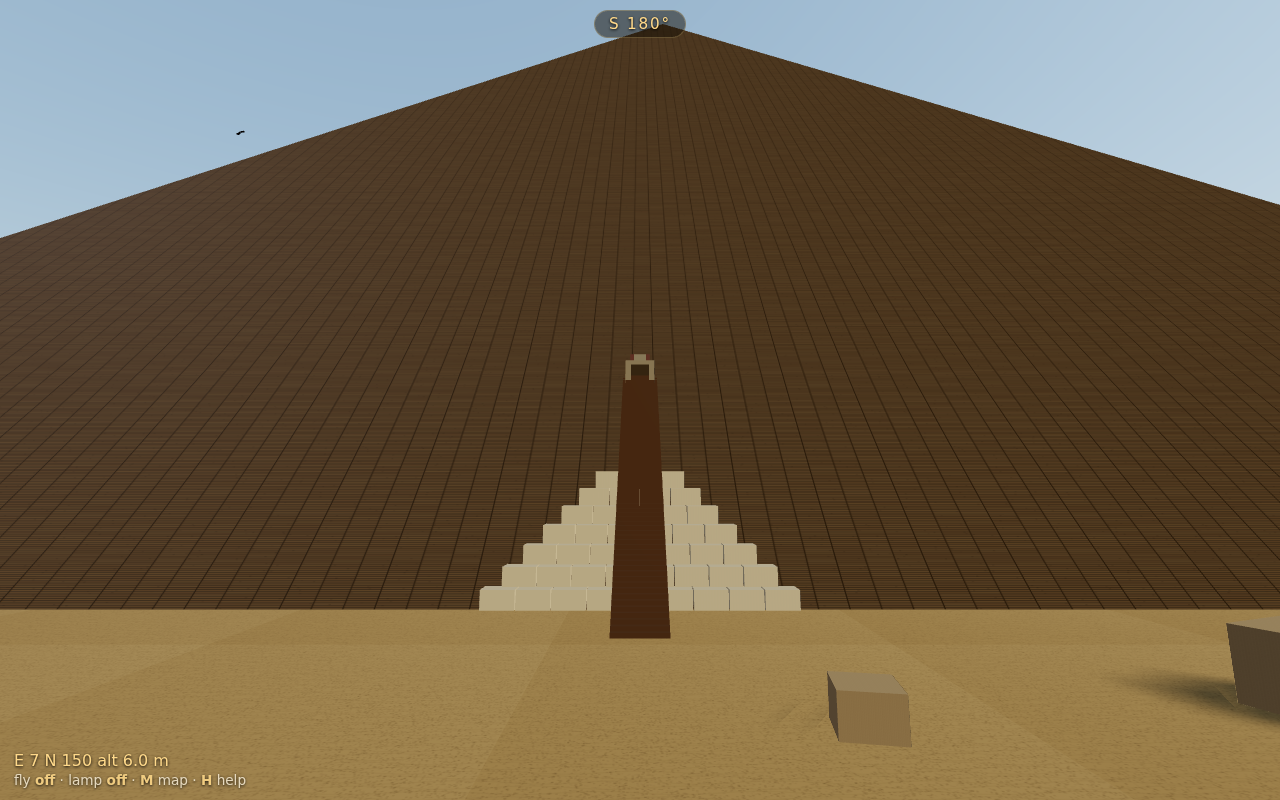
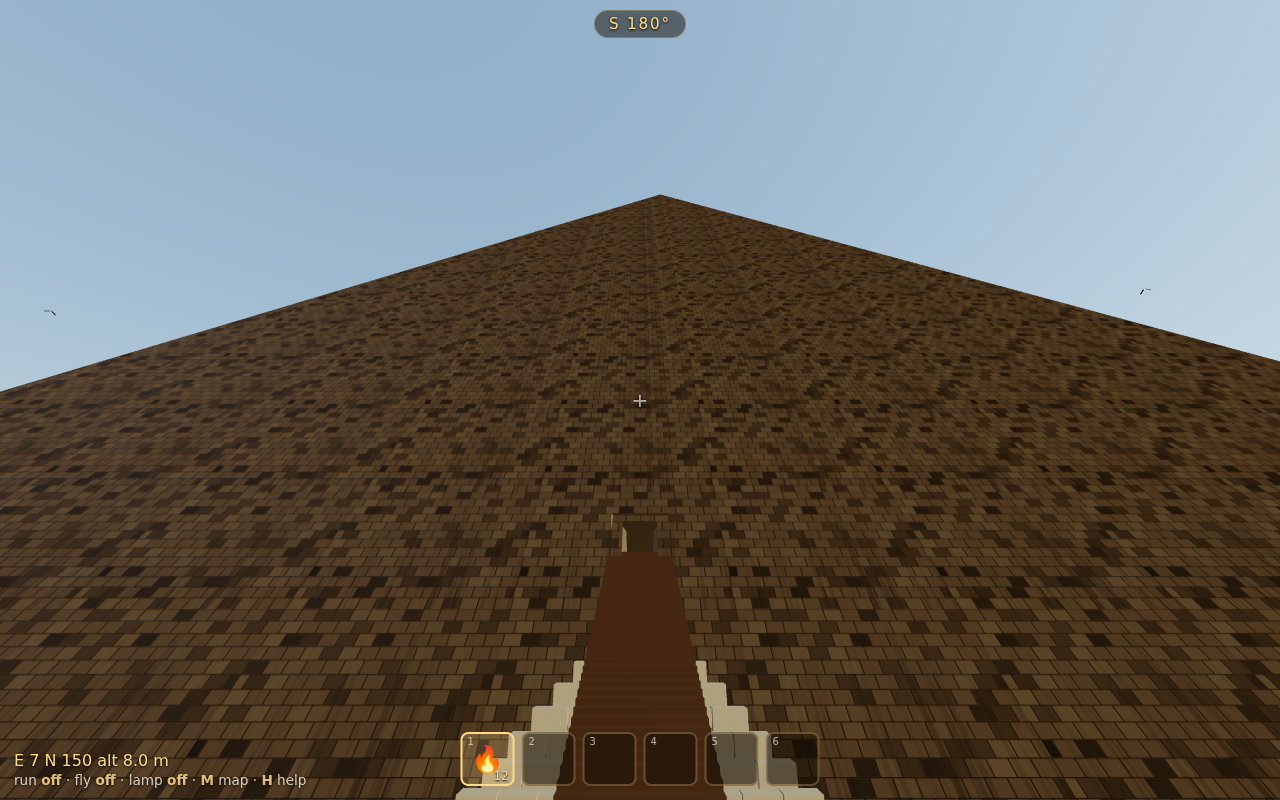
Refine layout to real survey + more realistic stone textures
Layout (from GPMP survey data / the Giza diagonal):
- Khafre centre -> (-300, 339): its SE corner now sits on the diagonal that
  joins the SE corners of all three pyramids.
- Menkaure centre -> (-562, 739): centre-to-centre diagonal to Khufu ≈ 928.7 m
  with a 739 m north-south separation, matching the survey.
- Sphinx, and Khufu's/Menkaure's subsidiary pyramids repositioned to their real
  rows (Khufu's east, Menkaure's along the south).

Textures:
- Rewrote the procedural stone as fine masonry courses with running-bond
  joints, per-block colour variation, eroded/missing blocks, weathering
  streaks and speckle, plus stronger bump relief.
- Distinct Tura-limestone casing (near-white, tight joints) and real Aswan
  granite (reddish with pink/grey/black mineral flecks).
- Mastabas/temples/Sphinx now use a textured bedrock material; richer sand.

diff --git a/js/materials.js b/js/materials.js
@@ -1,45 +1,97 @@
 import * as THREE from 'three';
 
-// Procedural canvas of stacked, eroded stone courses. Used as both colour
-// map and bump map so the millions of blocks read as relief without
-// modelling each one. Returns a THREE.CanvasTexture.
-function blockTexture(base, line, hi, courses = 24, seed = 1) {
+// ---------------------------------------------------------------------
+//  Procedural stone-course texture (colour + matching bump). Models the
+//  stacked masonry of the pyramids: mortar joints, per-block colour
+//  variation, weathering streaks and erosion speckle.
+// ---------------------------------------------------------------------
+function blockTexture(opts) {
+  const {
+    base = '#cbb083', dark = '#7c6840', light = '#e4cf9e',
+    courses = 12, perCourse = 12, streaks = true, seed = 1
+  } = opts;
   const S = 512;
   const c = document.createElement('canvas');
   c.width = c.height = S;
   const g = c.getContext('2d');
-  g.fillStyle = base; g.fillRect(0, 0, S, S);
-  const rh = S / courses;
   let rng = seed;
   const rand = () => (rng = (rng * 9301 + 49297) % 233280) / 233280;
+
+  g.fillStyle = base; g.fillRect(0, 0, S, S);
+  const rh = S / courses, bw0 = S / perCourse;
   for (let i = 0; i < courses; i++) {
     const y = i * rh;
-    const off = (i % 2) * (S / 12);
-    const blocks = 12;
-    const bw = S / blocks;
-    for (let b = -1; b < blocks + 1; b++) {
-      const x = b * bw - off;
-      // per-block tint (lighter top edge, darker base = weathering)
+    const off = (i % 2) * (bw0 / 2);                 // running-bond offset
+    // gentle per-course shade band
+    g.fillStyle = `rgba(0,0,0,${0.03 + rand() * 0.04})`;
+    g.fillRect(0, y, S, rh);
+    for (let b = -1; b <= perCourse; b++) {
+      const x = b * bw0 - off;
       const t = rand();
-      g.fillStyle = t > 0.5 ? hi : base;
-      g.globalAlpha = 0.18 + rand() * 0.22;
-      g.fillRect(x + 1, y + 1, bw - 2, rh - 2);
+      // block face: blend between dark/base/light by random
+      g.fillStyle = t > 0.72 ? light : (t < 0.22 ? dark : base);
+      g.globalAlpha = 0.30 + rand() * 0.30;
+      g.fillRect(x + 1.5, y + 1.5, bw0 - 3, rh - 3);
       g.globalAlpha = 1;
-      // mortar / shadow gaps
-      g.fillStyle = line;
-      g.fillRect(x, y, bw, 1.6);              // horizontal joint
-      g.fillRect(x, y, 1.6, rh);              // vertical joint
-      // erosion speckle
-      if (rand() > 0.7) {
-        g.fillStyle = 'rgba(0,0,0,0.10)';
-        g.fillRect(x + rand() * bw, y + rand() * rh, 3, 2);
+      // occasional dark eroded / missing block
+      if (rand() > 0.93) {
+        g.fillStyle = 'rgba(40,30,18,0.45)';
+        g.fillRect(x + 1.5, y + 1.5, bw0 - 3, rh - 3);
       }
+      // chips / speckle
+      for (let s = 0; s < 3; s++) {
+        g.fillStyle = `rgba(0,0,0,${0.05 + rand() * 0.08})`;
+        g.fillRect(x + rand() * bw0, y + rand() * rh, 2, 1.5);
+      }
+    }
+    // mortar joints (recessed → dark, used by the bump map too)
+    g.strokeStyle = dark; g.lineWidth = 2.2;
+    g.beginPath(); g.moveTo(0, y); g.lineTo(S, y); g.stroke();
+    for (let b = -1; b <= perCourse; b++) {
+      const x = b * bw0 - off;
+      g.beginPath(); g.moveTo(x, y); g.lineTo(x, y + rh); g.stroke();
+    }
+  }
+  // vertical weathering streaks
+  if (streaks) {
+    for (let s = 0; s < 26; s++) {
+      const x = rand() * S, w = 3 + rand() * 10;
+      const grd = g.createLinearGradient(x, 0, x, S);
+      grd.addColorStop(0, 'rgba(60,45,25,0)');
+      grd.addColorStop(1, `rgba(50,38,20,${0.05 + rand() * 0.10})`);
+      g.fillStyle = grd; g.fillRect(x, 0, w, S);
     }
   }
   const tex = new THREE.CanvasTexture(c);
   tex.wrapS = tex.wrapT = THREE.RepeatWrapping;
-  tex.anisotropy = 8;
+  tex.anisotropy = 16;
   tex.colorSpace = THREE.SRGBColorSpace;
+  return tex;
+}
+
+// Red Aswan granite: warm reddish ground with pink/grey/black mineral flecks.
+function graniteTexture() {
+  const S = 512;
+  const c = document.createElement('canvas');
+  c.width = c.height = S;
+  const g = c.getContext('2d');
+  const grd = g.createLinearGradient(0, 0, S, S);
+  grd.addColorStop(0, '#8a564a'); grd.addColorStop(1, '#7a4a40');
+  g.fillStyle = grd; g.fillRect(0, 0, S, S);
+  const cols = ['#c98f7a', '#9c6253', '#6e4338', '#3a2a24', '#b0a39a', '#caa890'];
+  for (let i = 0; i < 24000; i++) {
+    g.fillStyle = cols[(Math.random() * cols.length) | 0];
+    g.globalAlpha = 0.25 + Math.random() * 0.4;
+    const x = Math.random() * S, y = Math.random() * S, r = 1 + Math.random() * 2.6;
+    g.fillRect(x, y, r, r);
+  }
+  g.globalAlpha = 1;
+  // faint horizontal joints (granite ashlar)
+  g.strokeStyle = 'rgba(30,20,16,0.5)'; g.lineWidth = 2;
+  for (let y = 0; y < S; y += S / 6) { g.beginPath(); g.moveTo(0, y); g.lineTo(S, y); g.stroke(); }
+  const tex = new THREE.CanvasTexture(c);
+  tex.wrapS = tex.wrapT = THREE.RepeatWrapping;
+  tex.anisotropy = 16; tex.colorSpace = THREE.SRGBColorSpace;
   return tex;
 }
 
@@ -49,18 +101,14 @@ function sandTexture() {
   c.width = c.height = S;
   const g = c.getContext('2d');
   const grad = g.createLinearGradient(0, 0, S, S);
-  grad.addColorStop(0, '#cdac6e');
-  grad.addColorStop(1, '#c2a062');
+  grad.addColorStop(0, '#cdac6e'); grad.addColorStop(1, '#c09d60');
   g.fillStyle = grad; g.fillRect(0, 0, S, S);
-  for (let i = 0; i < 26000; i++) {
-    const x = Math.random() * S, y = Math.random() * S;
+  for (let i = 0; i < 30000; i++) {
     const v = Math.random();
-    g.fillStyle = `rgba(${v > 0.5 ? 170 : 120},${v > 0.5 ? 138 : 96},${v > 0.5 ? 86 : 56},0.22)`;
-    g.fillRect(x, y, 1.6, 1.6);
+    g.fillStyle = `rgba(${v > 0.5 ? 175 : 120},${v > 0.5 ? 142 : 96},${v > 0.5 ? 88 : 56},0.22)`;
+    g.fillRect(Math.random() * S, Math.random() * S, 1.6, 1.6);
   }
-  // faint wind ripples
-  g.strokeStyle = 'rgba(120,95,55,0.08)';
-  g.lineWidth = 2;
+  g.strokeStyle = 'rgba(120,95,55,0.07)'; g.lineWidth = 2;
   for (let y = 0; y < S; y += 9) {
     g.beginPath();
     for (let x = 0; x <= S; x += 16) g.lineTo(x, y + Math.sin(x * 0.05 + y) * 3);
@@ -68,47 +116,47 @@ function sandTexture() {
   }
   const tex = new THREE.CanvasTexture(c);
   tex.wrapS = tex.wrapT = THREE.RepeatWrapping;
-  tex.repeat.set(160, 160);
-  tex.anisotropy = 8;
-  tex.colorSpace = THREE.SRGBColorSpace;
+  tex.repeat.set(180, 180);
+  tex.anisotropy = 16; tex.colorSpace = THREE.SRGBColorSpace;
   return tex;
 }
 
 export function makeMaterials() {
-  const limestoneTex = blockTexture('#cbb083', '#7c6840', '#e4cf9e', 80, 7);
-  limestoneTex.repeat.set(10, 16);
-  const limestoneBump = limestoneTex.clone();
-  limestoneBump.needsUpdate = true;
+  // Weathered core masonry (exposed, casing-stripped pyramid) — fine courses.
+  const limestoneTex = blockTexture({ base: '#c7ad80', dark: '#6f5c39', light: '#e0cb98', courses: 13, perCourse: 13, seed: 7 });
+  limestoneTex.repeat.set(14, 14);
 
-  const casingTex = blockTexture('#e7d9b2', '#cabd92', '#f5ecd2', 48, 3);
-  casingTex.repeat.set(12, 18);
+  // Smooth Tura limestone casing — near-white, tight joints.
+  const casingTex = blockTexture({ base: '#e9dcbb', dark: '#cdbf93', light: '#f6efd8', courses: 16, perCourse: 10, streaks: false, seed: 3 });
+  casingTex.repeat.set(12, 16);
 
-  const graniteTex = blockTexture('#8a564a', '#5f3a30', '#a06b5c', 16, 11);
-  graniteTex.repeat.set(5, 4);
+  const graniteTex = graniteTexture();
+  graniteTex.repeat.set(4, 3);
+
+  const bedrockTex = blockTexture({ base: '#bda876', dark: '#8a774c', light: '#cdbb8c', courses: 8, perCourse: 8, seed: 11 });
+  bedrockTex.repeat.set(3, 3);
 
   const sandTex = sandTexture();
 
-  const lime = new THREE.MeshStandardMaterial({
-    map: limestoneTex, bumpMap: limestoneTex, bumpScale: 0.6,
-    color: 0xffffff, roughness: 0.97, metalness: 0.0, side: THREE.DoubleSide
-  });
-
   return {
-    limestone: lime,
+    limestone: new THREE.MeshStandardMaterial({
+      map: limestoneTex, bumpMap: limestoneTex, bumpScale: 1.1,
+      color: 0xffffff, roughness: 0.96, metalness: 0.0, side: THREE.DoubleSide
+    }),
     casing: new THREE.MeshStandardMaterial({
-      map: casingTex, bumpMap: casingTex, bumpScale: 0.35,
-      color: 0xffffff, roughness: 0.55, metalness: 0.0, side: THREE.DoubleSide
+      map: casingTex, bumpMap: casingTex, bumpScale: 0.5,
+      color: 0xffffff, roughness: 0.5, metalness: 0.0, side: THREE.DoubleSide
     }),
     granite: new THREE.MeshStandardMaterial({
-      map: graniteTex, bumpMap: graniteTex, bumpScale: 0.4,
-      color: 0xffffff, roughness: 0.5, metalness: 0.06, side: THREE.DoubleSide
+      map: graniteTex, bumpMap: graniteTex, bumpScale: 0.35,
+      color: 0xffffff, roughness: 0.55, metalness: 0.08, side: THREE.DoubleSide
     }),
     sand: new THREE.MeshStandardMaterial({
-      map: sandTex, color: 0xffffff, roughness: 1.0, metalness: 0.0,
-      side: THREE.DoubleSide
+      map: sandTex, color: 0xffffff, roughness: 1.0, metalness: 0.0, side: THREE.DoubleSide
     }),
     bedrock: new THREE.MeshStandardMaterial({
-      color: 0xbfa978, roughness: 0.98, metalness: 0.0
+      map: bedrockTex, bumpMap: bedrockTex, bumpScale: 0.7,
+      color: 0xffffff, roughness: 0.97, metalness: 0.0
     }),
     interior: new THREE.MeshStandardMaterial({
       color: 0x9b8e70, roughness: 0.9, metalness: 0.0, side: THREE.DoubleSide

diff --git a/js/data.js b/js/data.js
@@ -33,7 +33,9 @@ export const PYRAMIDS = {
     base: 215.25,
     height: 143.5,
     slopeDeg: 53.13,        // 53 deg 10'
-    center: { x: -340, z: 340 },
+    // ~300 m west, 339 m south of Khufu — its SE corner sits on the famous
+    // Giza diagonal that joins the SE corners of all three pyramids.
+    center: { x: -300, z: 339 },
     casing: 'cap',          // retains casing near the apex
     blurb: 'Built c. 2570 BC for Khafre. Appears taller than Khufu\'s ' +
            'pyramid only because it stands on higher bedrock. Keeps its ' +
@@ -45,7 +47,8 @@ export const PYRAMIDS = {
     base: 102.2,
     height: 65,
     slopeDeg: 51.34,
-    center: { x: -581, z: 740 },
+    // ~562 m west, 739 m south of Khufu (centre-to-centre diagonal ≈ 928.7 m).
+    center: { x: -562, z: 739 },
     casing: 'lowerGranite', // lowest 16 courses were red Aswan granite
     blurb: 'Built c. 2510 BC for Menkaure, the smallest of the three. ' +
            'Its lowest courses were clad in red Aswan granite.'
@@ -53,24 +56,27 @@ export const PYRAMIDS = {
 };
 
 // ---- Subsidiary "queens'" pyramids ----------------------------------
-// Khufu's three (G1-a/b/c) stand in a row on the east side.
+// Khufu's three (G1-a/b/c) stand in a N–S row just east of his pyramid's
+// east face, toward the south end (east face is at x ≈ +115).
 export const QUEENS_KHUFU = [
-  { base: 49.5, height: 30.25, center: { x: 132, z: -38 } },
-  { base: 49.0, height: 30,    center: { x: 132, z: 12 } },
-  { base: 46.25, height: 28,   center: { x: 132, z: 62 } }
+  { base: 49.5, height: 30.25, center: { x: 143, z: 18 } },
+  { base: 49.0, height: 30,    center: { x: 143, z: 65 } },
+  { base: 46.25, height: 28,   center: { x: 143, z: 112 } }
 ];
-// Menkaure's three (G3-a/b/c) stand in a row on the south side.
+// Menkaure's three (G3-a/b/c) stand in an E–W row along his south side
+// (south face at z ≈ 739 + 51 = 790).
 export const QUEENS_MENKAURE = [
-  { base: 44, height: 28, center: { x: -628, z: 815 } },
-  { base: 31, height: 21, center: { x: -588, z: 818 } },
-  { base: 31, height: 21, center: { x: -548, z: 818 } }
+  { base: 44, height: 28, center: { x: -608, z: 812 } },
+  { base: 31, height: 21, center: { x: -562, z: 815 } },
+  { base: 31, height: 21, center: { x: -518, z: 812 } }
 ];
 
 // ---- The Great Sphinx -----------------------------------------------
 // Carved from a single limestone outcrop, faces due east (+X).
 export const SPHINX = {
   name: 'The Great Sphinx',
-  center: { x: 332, z: 432 },
+  // ~327 m east, 432 m south of Khufu, in front of Khafre's valley temple.
+  center: { x: 327, z: 432 },
   length: 73,
   height: 20,
   width: 19,
